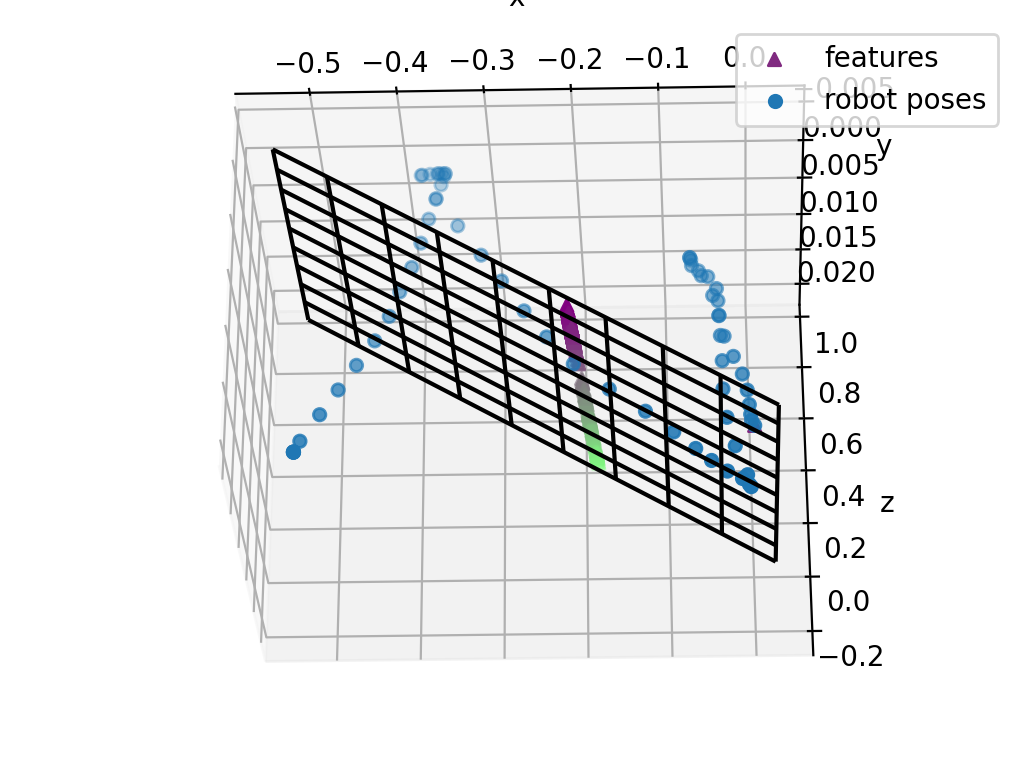
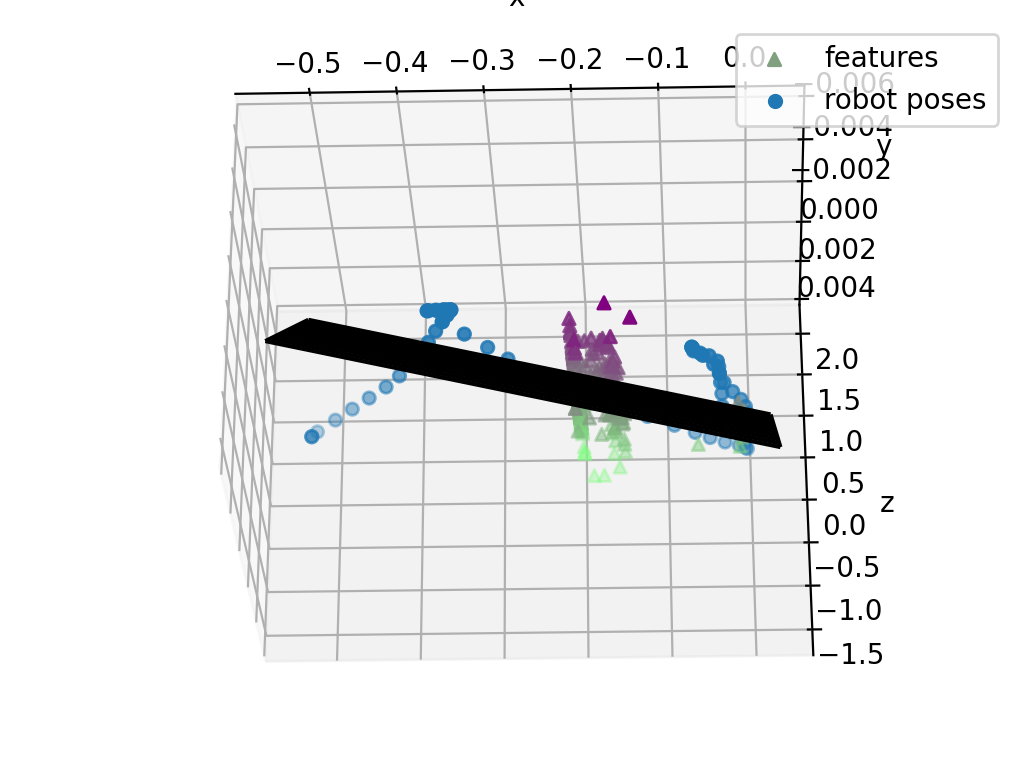
Added filtering

Changed region(s): [[0.2173, 0.0924, 0.8691, 0.8318], [0.807, 0.8318, 0.8691, 0.8626], [0.7449, 0.0616, 0.7759, 0.0924]]

diff --git a/lab3/l3_mapping_vic.py b/lab3/l3_mapping_vic.py
@@ -18,7 +18,8 @@ class FeatureProcessor:
         self.data_folder = data_folder
         self.num_images = len(glob.glob(data_folder + '*.jpeg'))
 
-        self.feature_match_locs = []  # [img_i, feat_i, [x, y] of match ((-1, -1) if no match)]
+        # [img_i, feat_i, [x, y] of match ((-1, -1) if no match)]
+        self.feature_match_locs = []
 
         # store the features found in the first image here. you may find it useful to store both the raw
         # keypoints in kp, and the numpy (u, v) pairs (keypoint.pt) in kp_np
@@ -29,8 +30,9 @@ class FeatureProcessor:
 
     def get_image(self, id):
         #Load image and convert to grayscale
-        img = cv2.imread(os.path.join(self.data_folder,'camera_image_{}.jpeg'.format(id)))
-        gray = cv2.cvtColor(img,cv2.COLOR_BGR2GRAY)
+        img = cv2.imread(os.path.join(self.data_folder,
+                                      'camera_image_{}.jpeg'.format(id)))
+        gray = cv2.cvtColor(img, cv2.COLOR_BGR2GRAY)
         return gray
 
     def get_features(self, id):
@@ -45,7 +47,7 @@ class FeatureProcessor:
         # cv2.waitKey(3)
 
         kps, descriptors = self.orb.detectAndCompute(gray, None)
-        kp_np = [[kp.pt[0],kp.pt[1]] for kp in kps]
+        kp_np = [[kp.pt[0], kp.pt[1]] for kp in kps]
 
         return kps, kp_np, descriptors
 
@@ -53,7 +55,7 @@ class FeatureProcessor:
         """ Take the current matches and the current keypoints
         and append them to the list of consistent match locations. """
         #img_i, feat_i, [x, y] of match ((-1, -1) if no match)
-        # self.feature_match_locs 
+        # self.feature_match_locs
 
         cur_feature_match_locs = np.zeros((len(self.features['kp']), 2))
         cur_feature_match_locs[:] = -1
@@ -65,7 +67,8 @@ class FeatureProcessor:
             self.feature_match_locs = np.array([cur_feature_match_locs])
             print("self.feature_match_locs", self.feature_match_locs.shape)
         else:
-            self.feature_match_locs = np.append(self.feature_match_locs, np.array([cur_feature_match_locs]), axis = 0)
+            self.feature_match_locs = np.append(
+                self.feature_match_locs, np.array([cur_feature_match_locs]), axis=0)
             print("self.feature_match_locs", self.feature_match_locs.shape)
 
     def get_matches(self):
@@ -73,38 +76,36 @@ class FeatureProcessor:
         first image. Output should be a numpy array of shape (num_images, num_features_first_image, 2), where
         the actual data is the locations of each feature in each image."""
 
-
         for id in range(self.num_images):
-            kp, kp_np, des =  self.get_features(id)
+            kp, kp_np, des = self.get_features(id)
 
             # Match descriptors.
             if self.first_matches:
-            #     matches = self.bf.match(self.features['des'], des)
+                #     matches = self.bf.match(self.features['des'], des)
 
-            #     # # Sort them in the order of their distance.
-            #     # matches = sorted(matches, key = lambda x:x.distance)
+                #     # # Sort them in the order of their distance.
+                #     # matches = sorted(matches, key = lambda x:x.distance)
 
-            #     # # Specify number of matches to draw and visualize it
-            #     # nmatch2draw = 10
-            #     # img_m = cv2.drawMatches(self.img_next, self.kp_next, self.img_cur, self.kp_cur, matches[:10], flags=2)
+                #     # # Specify number of matches to draw and visualize it
+                #     # nmatch2draw = 10
+                #     # img_m = cv2.drawMatches(self.img_next, self.kp_next, self.img_cur, self.kp_cur, matches[:10], flags=2)
 
-            #     # cv2.imshow("Feature Matching Window", img_m)
-            #     # cv2.waitKey(3)
-            #     self.append_matches(matches, kp_np)
-            # else:
+                #     # cv2.imshow("Feature Matching Window", img_m)
+                #     # cv2.waitKey(3)
+                #     self.append_matches(matches, kp_np)
+                # else:
                 self.features['kp'] = kp
                 self.features['kp_np'] = kp_np
                 self.features['des'] = des
                 print("self.features['kp']", len(self.features['kp']))
 
-                # self.feature_match_locs = np.zeros((self.num_images, len(self.features['kp']), 2)) 
+                # self.feature_match_locs = np.zeros((self.num_images, len(self.features['kp']), 2))
                 # self.append_matches(matches, kp_np)
 
                 self.first_matches = False
 
             matches = self.bf.match(self.features['des'], des)
             self.append_matches(matches, kp_np)
-
 
         # print("self.feature_match_locs.shape", self.feature_match_locs.shape)
         return self.feature_match_locs
@@ -118,59 +119,64 @@ def triangulate(feature_data, tf, inv_K):
     to section 7.1 of Szeliski's book "Computer Vision: Algorithms and Applications". """
 
     # raise NotImplementedError('Implement triangulate!')
-    # print("tf.shape", tf.shape)    
-    # print("tf", tf[0])   
-    # print("inv_K", inv_K)  
+    # print("tf.shape", tf.shape)
+    # print("tf", tf[0])
+    # print("inv_K", inv_K)
 
     factor1 = 0
     factor2 = 0
     for i in range(len(feature_data)):
-        camera_center = tf[i][:3,3]
-        I = np.identity(3)
+        # print(feature_data[i], np.array([-1,-1]))
+        if np.all(feature_data[i] != np.array([-1, -1])):
+            camera_center = tf[i][:3, 3]
 
-        # print("inv_K", inv_K) 
-        # print("np.linalg.inv(tf[i])[:3,:]", np.linalg.inv(tf[i])[:3,:].shape)   
-        # print("feature_data[i]", feature_data[i]) 
-        # print("camera_center", camera_center)
+            # print("inv_K", inv_K)
+            # print("np.linalg.inv(tf[i])[:3,:]", np.linalg.inv(tf[i])[:3,:].shape)
+            # print("feature_data[i]", feature_data[i])
+            # print("camera_center", camera_center)
 
-        # I = np.zeros((3,4))
-        # I[:3,:3] = np.identity(3)
-        # I = np.linalg.inv(I)
+            # I = np.zeros((3,4))
+            # I[:3,:3] = np.identity(3)
+            # I = np.linalg.inv(I)
 
-        # vs = np.linalg.inv(tf[i]) @ I @ inv_K @ feature_data[i]
-        # x = np.ones(3)
-        # x[:2] = feature_data[i]
-        x = np.append(feature_data[i], 1.)
-        inv_R = np.linalg.inv(tf[i][:3, :3])  # see if we need :3 or :
-        v = inv_R @ inv_K @ x
-        vTv = np.dot(v, v)
-        factor1 += I - vTv
-        factor2 += np.dot(I - vTv, camera_center)
+            # vs = np.linalg.inv(tf[i]) @ I @ inv_K @ feature_data[i]
+            feature_aug = np.ones(3)
+            feature_aug[:2] = feature_data[i]
+            inv_R = np.linalg.inv(tf[i])[:3, :]
+            v = inv_R.T @ inv_K @ feature_aug
+            vvT = v @ v.T
+            factor1 += np.identity(3) - vvT
+            factor2 += (np.identity(3) - vvT) @ camera_center
+        else:
+            print("feature_data[i]", feature_data[i])
 
-    p = np.dot(np.linalg.inv(factor1), factor2)
+    p = np.linalg.inv(factor1) @ factor2
 
     return p
 
 
 def main():
-    min_feature_views = 20  # minimum number of images a feature must be seen in to be considered useful
+    # minimum number of images a feature must be seen in to be considered useful
+    min_feature_views = 20
     K = np.array([[530.4669406576809, 0.0, 320.5],  # K from sim
                   [0.0, 530.4669406576809, 240.5],
                   [0.0, 0.0, 1.0]])
-    inv_K = np.linalg.inv(K)  # will be useful for triangulating feature locations
+    # will be useful for triangulating feature locations
+    inv_K = np.linalg.inv(K)
 
     # load in data, get consistent feature locations
-    data_folder = os.path.join(os.getcwd(),'l3_mapping_data/')
+    data_folder = os.path.join(os.getcwd(), 'l3_mapping_data/')
     f_processor = FeatureProcessor(data_folder)
-    feature_locations = f_processor.get_matches()  # output shape should be (num_images, num_features, 2)
+    # output shape should be (num_images, num_features, 2)
+    feature_locations = f_processor.get_matches()
 
     # feature rejection
     # raise NotImplementedError('(Optionally) implement feature rejection! (though we strongly recommend it)')
     good_feature_locations = feature_locations
     num_landmarks = len(feature_locations[0])
-    print("num_landmarks",num_landmarks )
-    print("num_images",f_processor.num_images )
-    print("feature_locations",feature_locations.shape )
+    print("num_landmarks", num_landmarks)
+    print("num_images", f_processor.num_images)
+    print("feature_locations", feature_locations.shape)
 
     pc = np.zeros((num_landmarks, 3))
 
@@ -180,6 +186,7 @@ def main():
 
     for i in range(1, num_landmarks):
         # YOUR CODE HERE!! You need to populate good_feature_locations after you reject bad features!
+        print("Landmark", i)
         pc[i] = triangulate(good_feature_locations[:, i, :], tf_fixed, inv_K)
 
     # ------- PLOTTING TOOLS ------------------------------------------------------------------------------
@@ -198,9 +205,11 @@ def main():
     colors[:, 1] = (pc[:, 1] - min_y) / (max_y - min_y)
     pc_fig = plt.figure()
     ax = pc_fig.add_subplot(111, projection='3d')
-    ax.scatter(pc[:, 0], pc[:, 1], pc[:, 2], marker='^', color=colors, label='features')
+    ax.scatter(pc[:, 0], pc[:, 1], pc[:, 2], marker='^',
+               color=colors, label='features')
 
-    ax.scatter(traj_pc[:, 0], traj_pc[:, 1], traj_pc[:, 2], marker='o', label='robot poses')
+    ax.scatter(traj_pc[:, 0], traj_pc[:, 1], traj_pc[:, 2],
+               marker='o', label='robot poses')
     ax.set_xlabel('x')
     ax.set_ylabel('y')
     ax.set_zlabel('z')
@@ -210,7 +219,7 @@ def main():
     # fit a plane to the feature point cloud for illustration
     # see https://math.stackexchange.com/questions/99299/best-fitting-plane-given-a-set-of-points
     centroid = pc.mean(axis=0)
-    pc_minus_cent = pc - centroid # subtract centroid
+    pc_minus_cent = pc - centroid  # subtract centroid
     u, s, vh = np.linalg.svd(pc_minus_cent.T)
     normal = u.T[2]
 
@@ -222,19 +231,21 @@ def main():
     ylim = ax.get_ylim()
     X, Y = np.meshgrid(np.linspace(xlim[0], xlim[1], 10),
                        np.linspace(ylim[0], ylim[1], 10))
-    Z = (-normal[0] * X - normal[1] * Y - d) * 1. /normal[2]
-    ax.plot_wireframe(X,Y,Z, color='k')
+    Z = (-normal[0] * X - normal[1] * Y - d) * 1. / normal[2]
+    ax.plot_wireframe(X, Y, Z, color='k')
 
     # view all final good features matched on first image (to compare to point cloud)
     feat_fig = plt.figure()
     ax = feat_fig.add_subplot(111)
     ax.imshow(f_processor.get_image(0), cmap='gray')
-    ax.scatter(good_feature_locations[0, :, 0], good_feature_locations[0, :, 1], marker='^', color=colors)
+    ax.scatter(good_feature_locations[0, :, 0],
+               good_feature_locations[0, :, 1], marker='^', color=colors)
 
     plt.show()
 
     pc_fig.savefig('point_clouds.png', bbox_inches='tight')
     feat_fig.savefig('feat_fig.png', bbox_inches='tight')
+
 
 if __name__ == '__main__':
     main()
